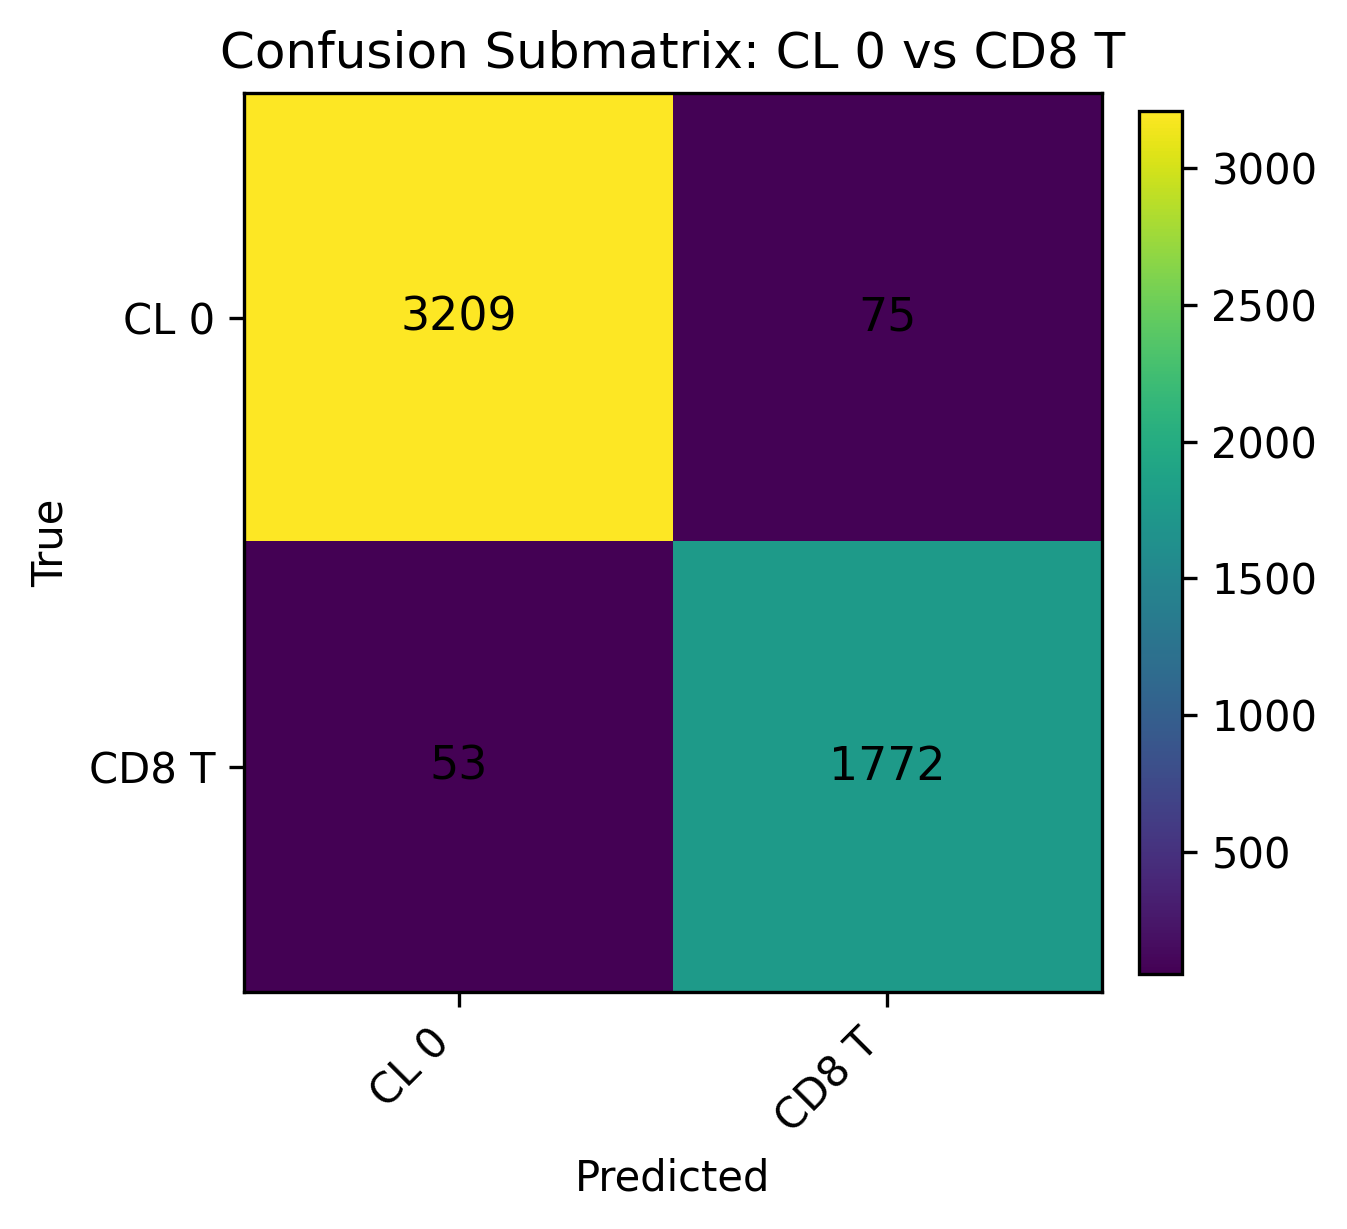
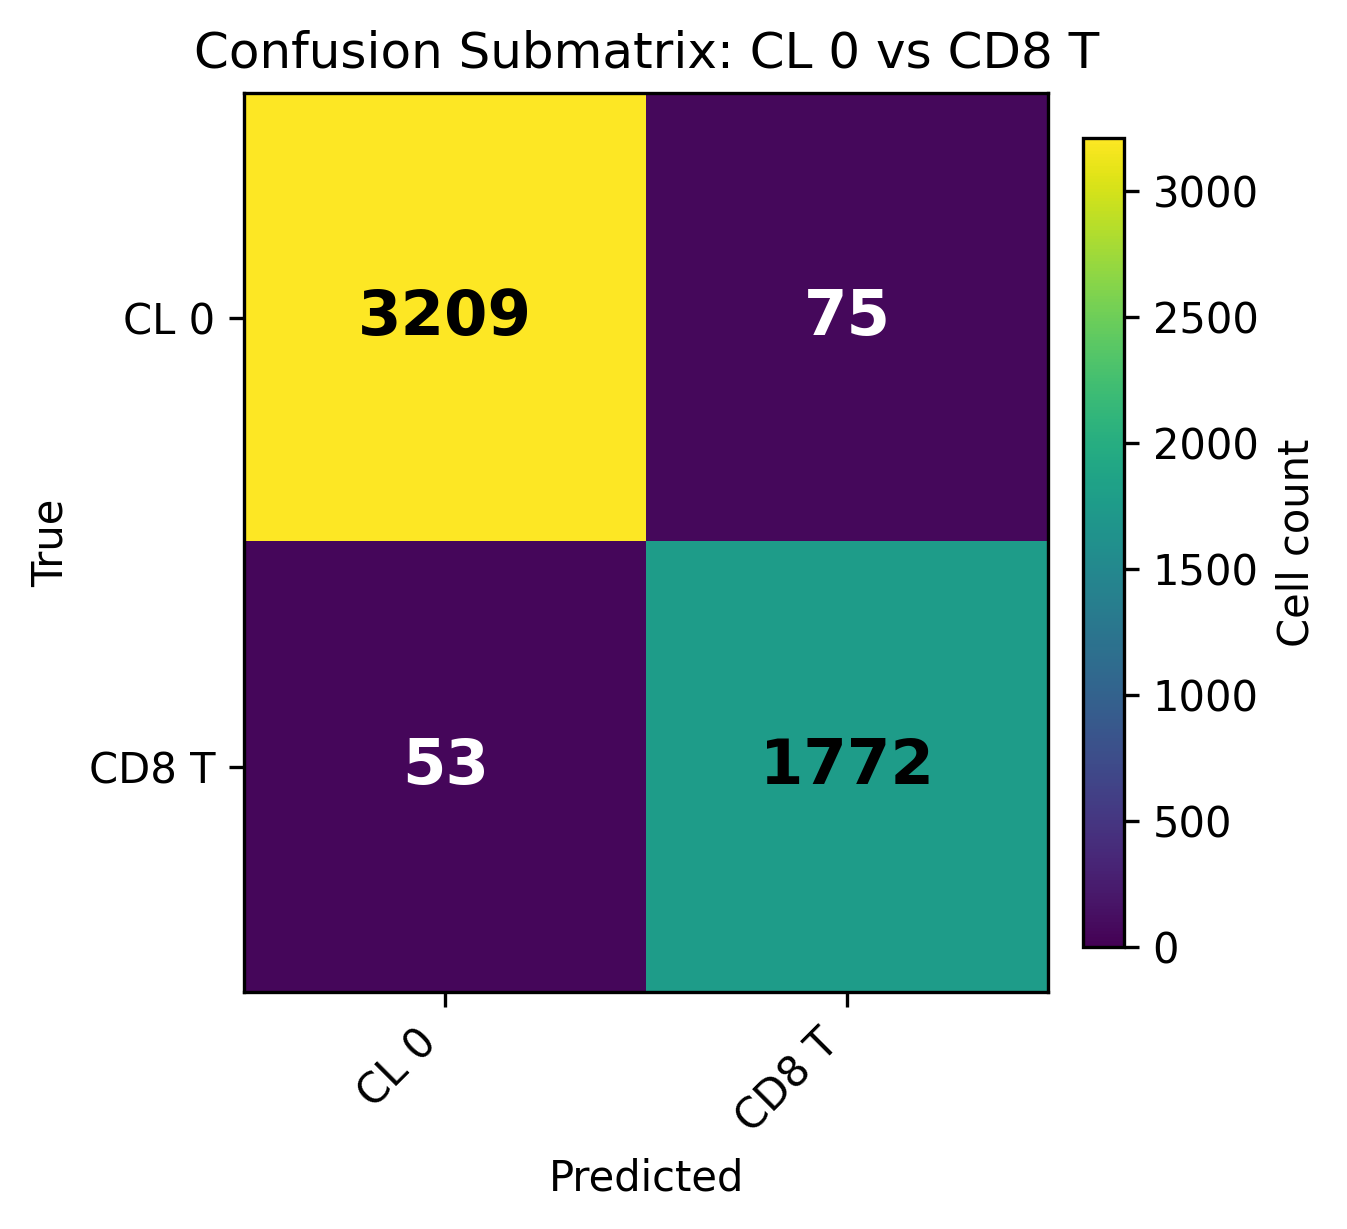
Umap updated

diff --git a/src/plot_umap_misclassifications.py b/src/plot_umap_misclassifications.py
@@ -152,7 +152,7 @@ def plot_pairs(ax, umap_xy, y_true, y_pred, class_names, title, top_k, bg_size, 
     ax.legend(frameon=False, bbox_to_anchor=(1.02, 1), loc="upper left", borderaxespad=0)
 
 
-def plot_density(ax, umap_xy, is_mis, title, bg_size, bg_alpha, gridsize):
+def plot_density(ax, umap_xy, is_mis, title, bg_size, err_size, bg_alpha, gridsize):
     # background test points grey
     ax.scatter(
         umap_xy[:, 0], umap_xy[:, 1],
@@ -160,13 +160,26 @@ def plot_density(ax, umap_xy, is_mis, title, bg_size, bg_alpha, gridsize):
     )
 
     if is_mis.any():
-        hb = ax.hexbin(
-            umap_xy[is_mis, 0], umap_xy[is_mis, 1],
-            gridsize=gridsize, mincnt=1
+        # Compute misclassified-cell count per UMAP bin, then colour each
+        # misclassified point by the count in its bin (circular dots instead
+        # of hex bins).
+        mx = umap_xy[is_mis, 0]
+        my = umap_xy[is_mis, 1]
+        H, xedges, yedges = np.histogram2d(mx, my, bins=gridsize)
+        xi = np.clip(np.digitize(mx, xedges) - 1, 0, gridsize - 1)
+        yi = np.clip(np.digitize(my, yedges) - 1, 0, gridsize - 1)
+        counts = H[xi, yi]
+        vmax = max(counts.max(), 1)
+        sc = ax.scatter(
+            mx, my,
+            c=counts, cmap="viridis",
+            s=err_size, linewidths=0,
+            vmin=0, vmax=vmax,
         )
-        plt.colorbar(hb, ax=ax, fraction=0.046, pad=0.04, label="Misclassified density")
+        cbar = plt.colorbar(sc, ax=ax, fraction=0.046, pad=0.04)
+        cbar.set_label(f"Misclassified cells per UMAP bin ({gridsize}×{gridsize} grid, raw count)")
 
-    ax.set_title(title)
+    ax.set_title(f"{title}\n(colour = # misclassified cells in local UMAP neighbourhood)", fontsize=11)
     ax.set_xlabel("UMAP1")
     ax.set_ylabel("UMAP2")
     ax.grid(False)
@@ -257,6 +270,7 @@ def main():
         is_mis,
         title=f"Misclassification Density on UMAP ({args.model.upper()})",
         bg_size=args.bg_size,
+        err_size=args.err_size,
         bg_alpha=args.bg_alpha,
         gridsize=args.hex_gridsize,
     )

diff --git a/src/error_analysis_sann.py b/src/error_analysis_sann.py
@@ -135,7 +135,7 @@ def plot_submatrix(cm: np.ndarray, class_names, true_label: str, pred_label: str
     sub = cm[np.ix_([a, b], [a, b])]
 
     fig, ax = plt.subplots(figsize=(4.6, 4.2))
-    im = ax.imshow(sub, aspect="auto")
+    im = ax.imshow(sub, aspect="auto", vmin=0, vmax=sub.max())
 
     ax.set_xticks([0, 1])
     ax.set_yticks([0, 1])
@@ -146,12 +146,21 @@ def plot_submatrix(cm: np.ndarray, class_names, true_label: str, pred_label: str
     ax.set_ylabel("True")
     ax.set_title(f"Confusion Submatrix: {true_label} vs {pred_label}")
 
-    # annotate counts
+    # annotate counts — white on dark (low) cells, black on light (high) cells
+    vmax = max(sub.max(), 1)
     for i in range(2):
         for j in range(2):
-            ax.text(j, i, str(int(sub[i, j])), ha="center", va="center", fontsize=11)
+            val = int(sub[i, j])
+            txt_color = "white" if val / vmax < 0.35 else "black"
+            ax.text(
+                j, i, str(val),
+                ha="center", va="center",
+                fontsize=15, fontweight="semibold",
+                color=txt_color,
+            )
 
-    fig.colorbar(im, ax=ax, fraction=0.046, pad=0.04)
+    cbar = fig.colorbar(im, ax=ax, fraction=0.046, pad=0.04)
+    cbar.set_label("Cell count")
     fig.tight_layout()
     fig.savefig(out_path, dpi=dpi, bbox_inches="tight")
     plt.close(fig)
